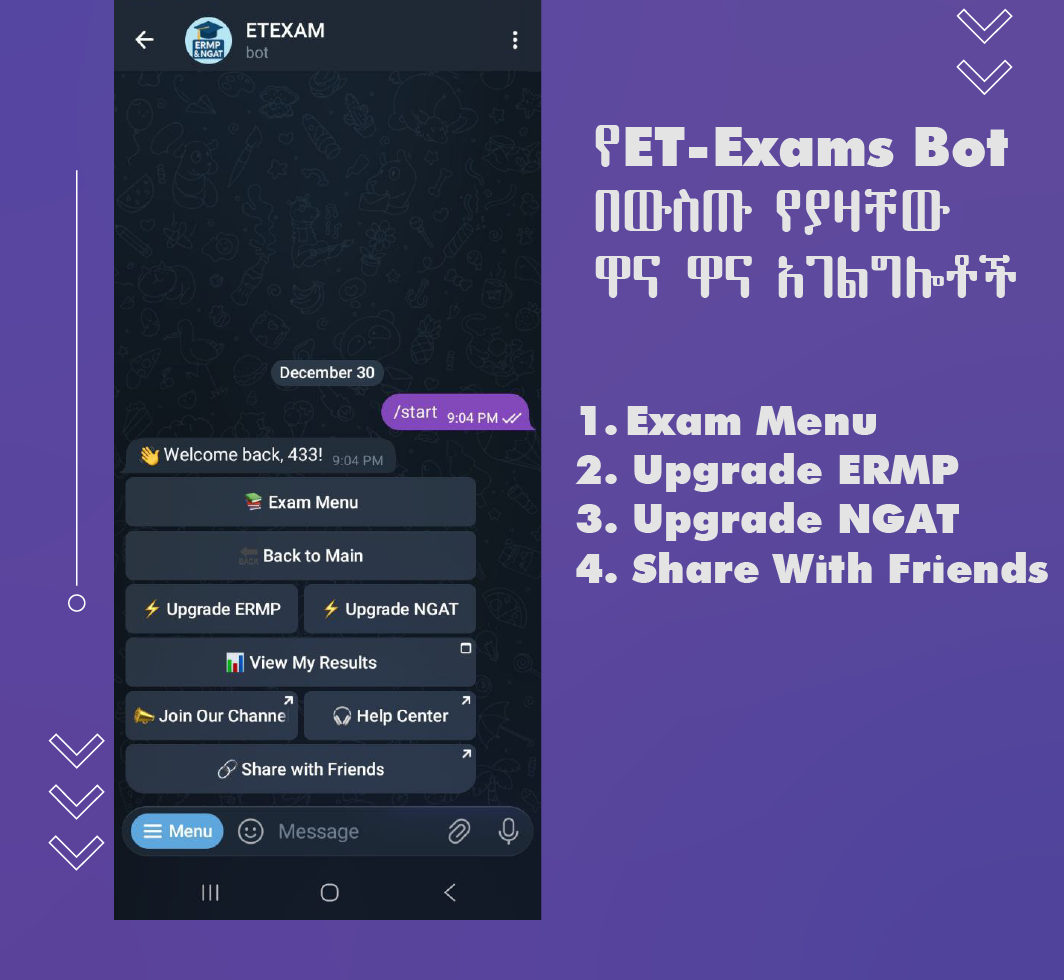
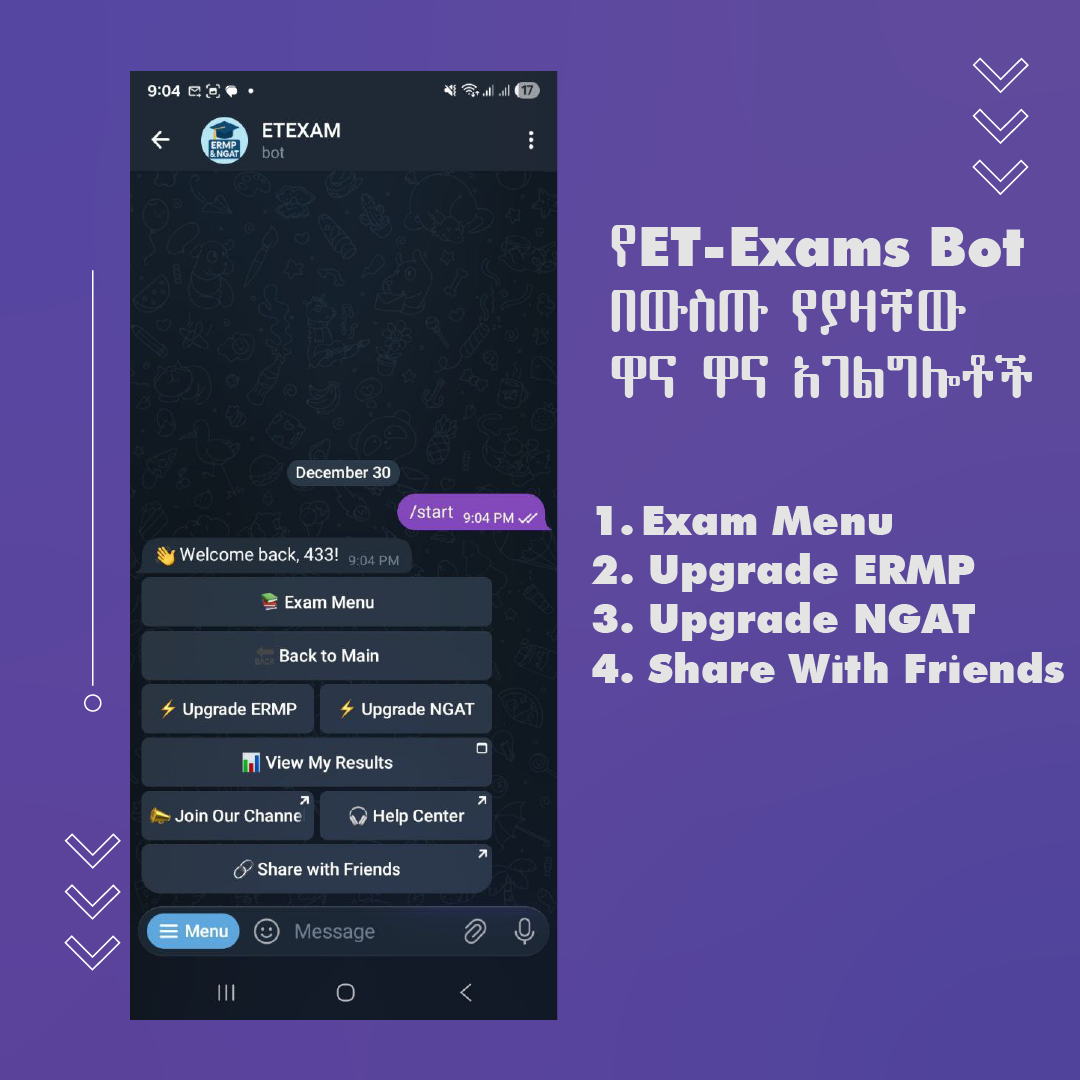
Initial commit

Changed region(s): [[0.031, 0.0, 0.9925, 0.949], [0.5583, 0.0, 0.9615, 0.3673]]

diff --git a/frontend/src/components/HowToUpgrade.css b/frontend/src/components/HowToUpgrade.css
@@ -1,7 +1,7 @@
 /* Container for the image page - slightly wider than the menu */
 .wide-container {
   max-width: 800px !important; 
-  width: 95%;
+  width: 100%;
 }
 
 .back-btn {
@@ -11,7 +11,7 @@
   font-weight: 600;
   cursor: pointer;
   padding: 5px 0;
-  margin-bottom: 10px;
+  margin-bottom: 5px;
   display: block;
   transition: transform 0.2s ease;
 }
@@ -23,17 +23,20 @@
 
 .image-card {
   background: #f8fafc;
-  border-radius: 16px;
-  padding: 10px;
+  border-radius: 0px;
+  padding: 0px;
   border: 1px solid #e2e8f0;
-  margin-top: 20px;
+  margin-top: 0px;
+  width: 100%;
+  height: 90%;
   overflow: hidden;
 }
 
 .full-width-image {
   width: 100%;
   height: auto;
-  border-radius: 12px;
+  margin-left: 0px;
+  border-radius: 1px;
   display: block;
 }
 

diff --git a/backend/bot.js b/backend/bot.js
@@ -107,7 +107,7 @@ function buildMainKeyboard(user) {
         },
         { 
           text: '🎧 Help Center', 
-          url: 'https://t.me/support_username' // Replace with your support link
+          url: process.env.support_username // Replace with your support link
         }
       ],
       [
